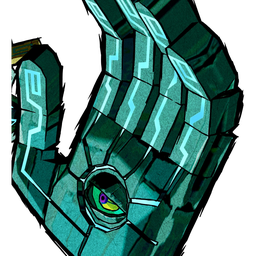
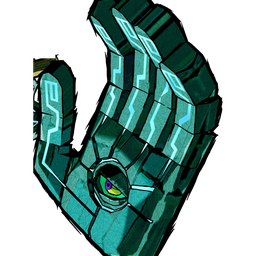
Separate Gohdan's head from its hand and the ground Mothula from the flying one
Claude-Session: https://claude.ai/code/session_01TYYWG7vpugJJjzU7kuqrn3

diff --git a/scripts/prep_ww_art.py b/scripts/prep_ww_art.py
@@ -164,13 +164,40 @@ def main() -> None:
     # Combined images
     pair = Image.open(SRC / "mothulaPair.webp").convert("RGBA")
     gohdan = Image.open(SRC / "gohdan.webp").convert("RGBA")
-    gohdan.save(OUT / "gohdan.png")
+    # Gohdan's head and its right hand overlap: the thumb (x > 0.598, y > 0.255) belongs to the hand.
+    gw, gh = gohdan.size
+    head = gohdan.copy()
+    head.paste((0, 0, 0, 0), (int(0.645 * gw), 0, gw, gh))
+    head.paste((0, 0, 0, 0), (int(0.598 * gw), int(0.255 * gh), gw, gh))
+    # The face is symmetrical: rebuild the side hidden behind the thumb from the other half.
+    axis = int(0.4545 * gw)
+    left = head.crop((int(0.25 * gw), 0, axis, gh))
+    head.paste((0, 0, 0, 0), (axis, 0, gw, gh))
+    head.alpha_composite(left.transpose(Image.FLIP_LEFT_RIGHT), (axis, 0))
+    blobs(crop_frac(head, 0.25, 0.0, 0.70, 1.0), 2)[0].save(OUT / "gohdan.png")
+    hand = gohdan.copy()
+    hand.paste((0, 0, 0, 0), (0, 0, int(0.598 * gw), gh))
+    hand.paste((0, 0, 0, 0), (0, 0, int(0.645 * gw), int(0.255 * gh)))
     molgera = Image.open(SRC / "molgera.webp").convert("RGBA")
     parts = blobs(molgera)
     parts[0].save(OUT / "molgera.png")
     parts[1].save(OUT / "molgeraLarva.png")
-    blobs(crop_frac(pair, 0.50, 0.66, 1.0, 1.0), 1)[0].save(OUT / "mothula.png")  # the ground Mothula, lower right
-    blobs(crop_frac(gohdan, 0.60, 0.0, 1.0, 1.0), 2)[0].save(OUT / "gohdansHand.png")  # its right hand
+    # The ground Mothula, lower right. The flying one's lower wings hang down onto it, so cut along
+    # its back: keep only what's below y = 0.70, except the tall shell on the right.
+    ground = pair.copy()
+    pw, ph = ground.size
+    ground.paste((0, 0, 0, 0), (0, 0, pw, int(0.70 * ph)))
+    ground.paste(pair.crop((int(0.80 * pw), int(0.60 * ph), pw, int(0.70 * ph))), (int(0.80 * pw), int(0.60 * ph)))
+    gp = ground.load()
+    for y in range(int(0.70 * ph), int(0.80 * ph)):
+        for x in range(int(0.80 * pw)):
+            r, g, b, a = gp[x, y]
+            hh, ss, vv = colorsys.rgb_to_hsv(r / 255, g / 255, b / 255)
+            if a and 0.25 <= hh <= 0.58 and ss > 0.25 and vv > 0.25:
+                gp[x, y] = (0, 0, 0, 0)
+    ground = crop_frac(ground, 0.40, 0.58, 1.0, 1.0)
+    blobs(ground, 1)[0].save(OUT / "mothula.png")
+    blobs(crop_frac(hand, 0.59, 0.0, 1.0, 1.0), 2)[0].save(OUT / "gohdansHand.png")
     # Backgrounds to cut out
     flood_white(Image.open(SRC / "ritoGeneric.jpg")).save(OUT / "ritoGeneric.png")
     navy_gold = lambda h, s, v, r, g, b: (0.55 <= h <= 0.75 and s > 0.35 and v < 0.75) or (0.10 <= h <= 0.18 and s > 0.55 and v > 0.45) or (0.45 <= h <= 0.55 and s > 0.4)

diff --git a/scripts/process_art.py b/scripts/process_art.py
@@ -224,8 +224,8 @@ ENTRIES = {
     "arrowChuchu": ("arrowChuchu.png", (0.50, 0.50, 1.15)),
     "gohmaWW": ("gohmaWW.png", (0.50, 0.50, 1.00)),
     "kalleDemos": ("kalleDemos.png", (0.50, 0.50, 1.00)),
-    "gohdan": ("gohdan.png", (0.50, 0.35, 0.35)),
-    "gohdansHand": ("gohdansHand.png", (0.50, 0.50, 1.10)),
+    "gohdan": ("gohdan.png", (0.50, 0.50, 1.25)),
+    "gohdansHand": ("gohdansHand.png", (0.50, 0.50, 1.35)),
     "helmarocKing": ("helmarocKing.png", (0.50, 0.42, 0.90)),
     "jalhalla": ("jalhalla.png", (0.50, 0.50, 1.00)),
     "molgera": ("molgera.png", (0.50, 0.50, 1.00)),
